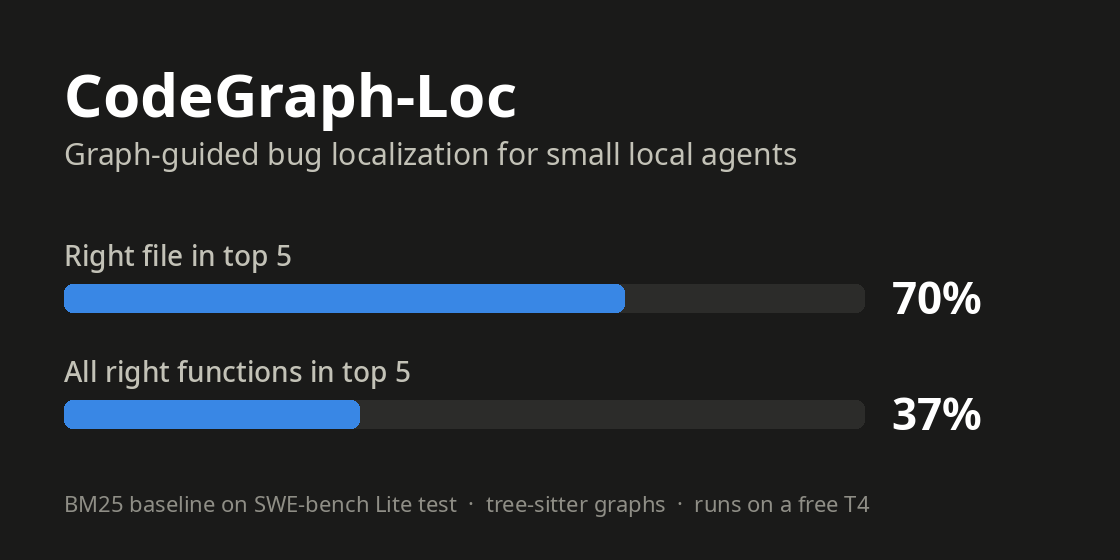
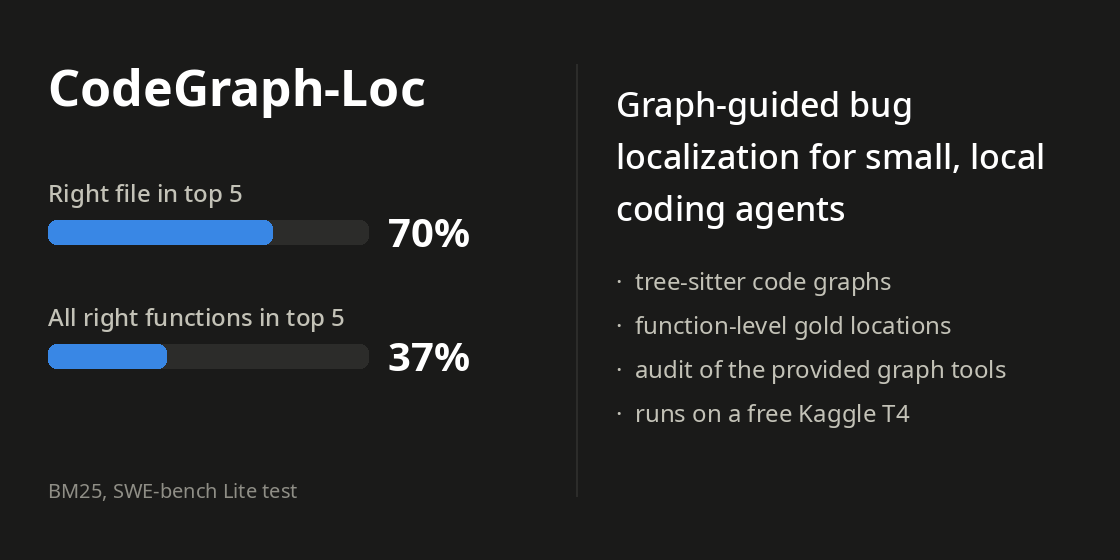
Make card thumbnail-safe: self-contained left square for Kaggle's square crop

diff --git a/paper/make_card.py b/paper/make_card.py
@@ -1,4 +1,7 @@
-"""Render the 560x280 Kaggle card (drawn at 2x) from the measured SWE-bench Lite BM25 results."""
+"""Render the 560x280 Kaggle card (drawn at 2x) from the measured SWE-bench Lite BM25 results.
+
+The left 280x280 square is self-contained because Kaggle crops it as the square thumbnail.
+"""
 import json
 from pathlib import Path
 
@@ -14,31 +17,53 @@ def font(weight, size):
     return ImageFont.truetype(FONT.format(weight), size * S)
 
 
+def wrap(d, text, fnt, width):
+    lines, cur = [], ""
+    for word in text.split():
+        trial = f"{cur} {word}".strip()
+        if d.textlength(trial, font=fnt) <= width:
+            cur = trial
+        else:
+            lines.append(cur)
+            cur = word
+    return lines + [cur]
+
+
 summary = json.loads(Path("outputs/bm25_lite.summary.json").read_text())
 rows = [("Right file in top 5", summary["file"]["acc@5"]),
         ("All right functions in top 5", summary["entity"]["acc@5"])]
 
 img = Image.new("RGB", (W, H), SURFACE)
 d = ImageDraw.Draw(img)
-x0 = 32 * S
-d.text((x0, 26 * S), "CodeGraph-Loc", font=font("Bold", 30), fill=TEXT)
-d.text((x0, 66 * S), "Graph-guided bug localization for small local agents", font=font("Regular", 15), fill=TEXT_2)
 
-bar_x, bar_w, bar_h = x0, 400 * S, 14 * S
-y = 118 * S
+x0 = 24 * S
+d.text((x0, 26 * S), "CodeGraph-Loc", font=font("Bold", 25), fill=TEXT)
+bar_w, bar_h = 160 * S, 12 * S
+y = 88 * S
 for label, value in rows:
-    d.text((bar_x, y), label, font=font("Medium", 14), fill=TEXT_2)
-    by = y + 24 * S
-    d.rounded_rectangle((bar_x, by, bar_x + bar_w, by + bar_h), radius=4 * S, fill=TRACK)
-    d.rounded_rectangle((bar_x, by, bar_x + int(bar_w * value), by + bar_h), radius=4 * S, fill=SERIES)
-    d.text((bar_x + bar_w + 14 * S, by - 9 * S), f"{value * 100:.0f}%", font=font("Bold", 22), fill=TEXT)
-    y += 58 * S
+    d.text((x0, y), label, font=font("Medium", 12), fill=TEXT_2)
+    by = y + 22 * S
+    d.rounded_rectangle((x0, by, x0 + bar_w, by + bar_h), radius=4 * S, fill=TRACK)
+    d.rounded_rectangle((x0, by, x0 + int(bar_w * value), by + bar_h), radius=4 * S, fill=SERIES)
+    d.text((x0 + bar_w + 10 * S, by - 8 * S), f"{value * 100:.0f}%", font=font("Bold", 20), fill=TEXT)
+    y += 62 * S
+d.text((x0, 238 * S), "BM25, SWE-bench Lite test", font=font("Regular", 10), fill=MUTED)
 
-d.text((x0, 244 * S), "BM25 baseline on SWE-bench Lite test  ·  tree-sitter graphs  ·  runs on a free T4",
-       font=font("Regular", 11), fill=MUTED)
+d.line((288 * S, 32 * S, 288 * S, 248 * S), fill=TRACK, width=S)
+rx, rw = 308 * S, 228 * S
+ty = 40 * S
+for line in wrap(d, "Graph-guided bug localization for small, local coding agents", font("Medium", 17), rw):
+    d.text((rx, ty), line, font=font("Medium", 17), fill=TEXT)
+    ty += 26 * S
+ty += 14 * S
+for item in ("tree-sitter code graphs", "function-level gold locations", "audit of the provided graph tools",
+             "runs on a free Kaggle T4"):
+    d.text((rx, ty), f"·  {item}", font=font("Regular", 12), fill=TEXT_2)
+    ty += 22 * S
 
 out = Path("paper/card")
 out.mkdir(exist_ok=True)
 img.save(out / "card_1120x560.png")
 img.resize((560, 280), Image.LANCZOS).save(out / "card_560x280.png")
+img.crop((0, 0, H, H)).resize((280, 280), Image.LANCZOS).save(out / "thumb_preview.png")
 print("wrote", *sorted(p.name for p in out.iterdir()))
